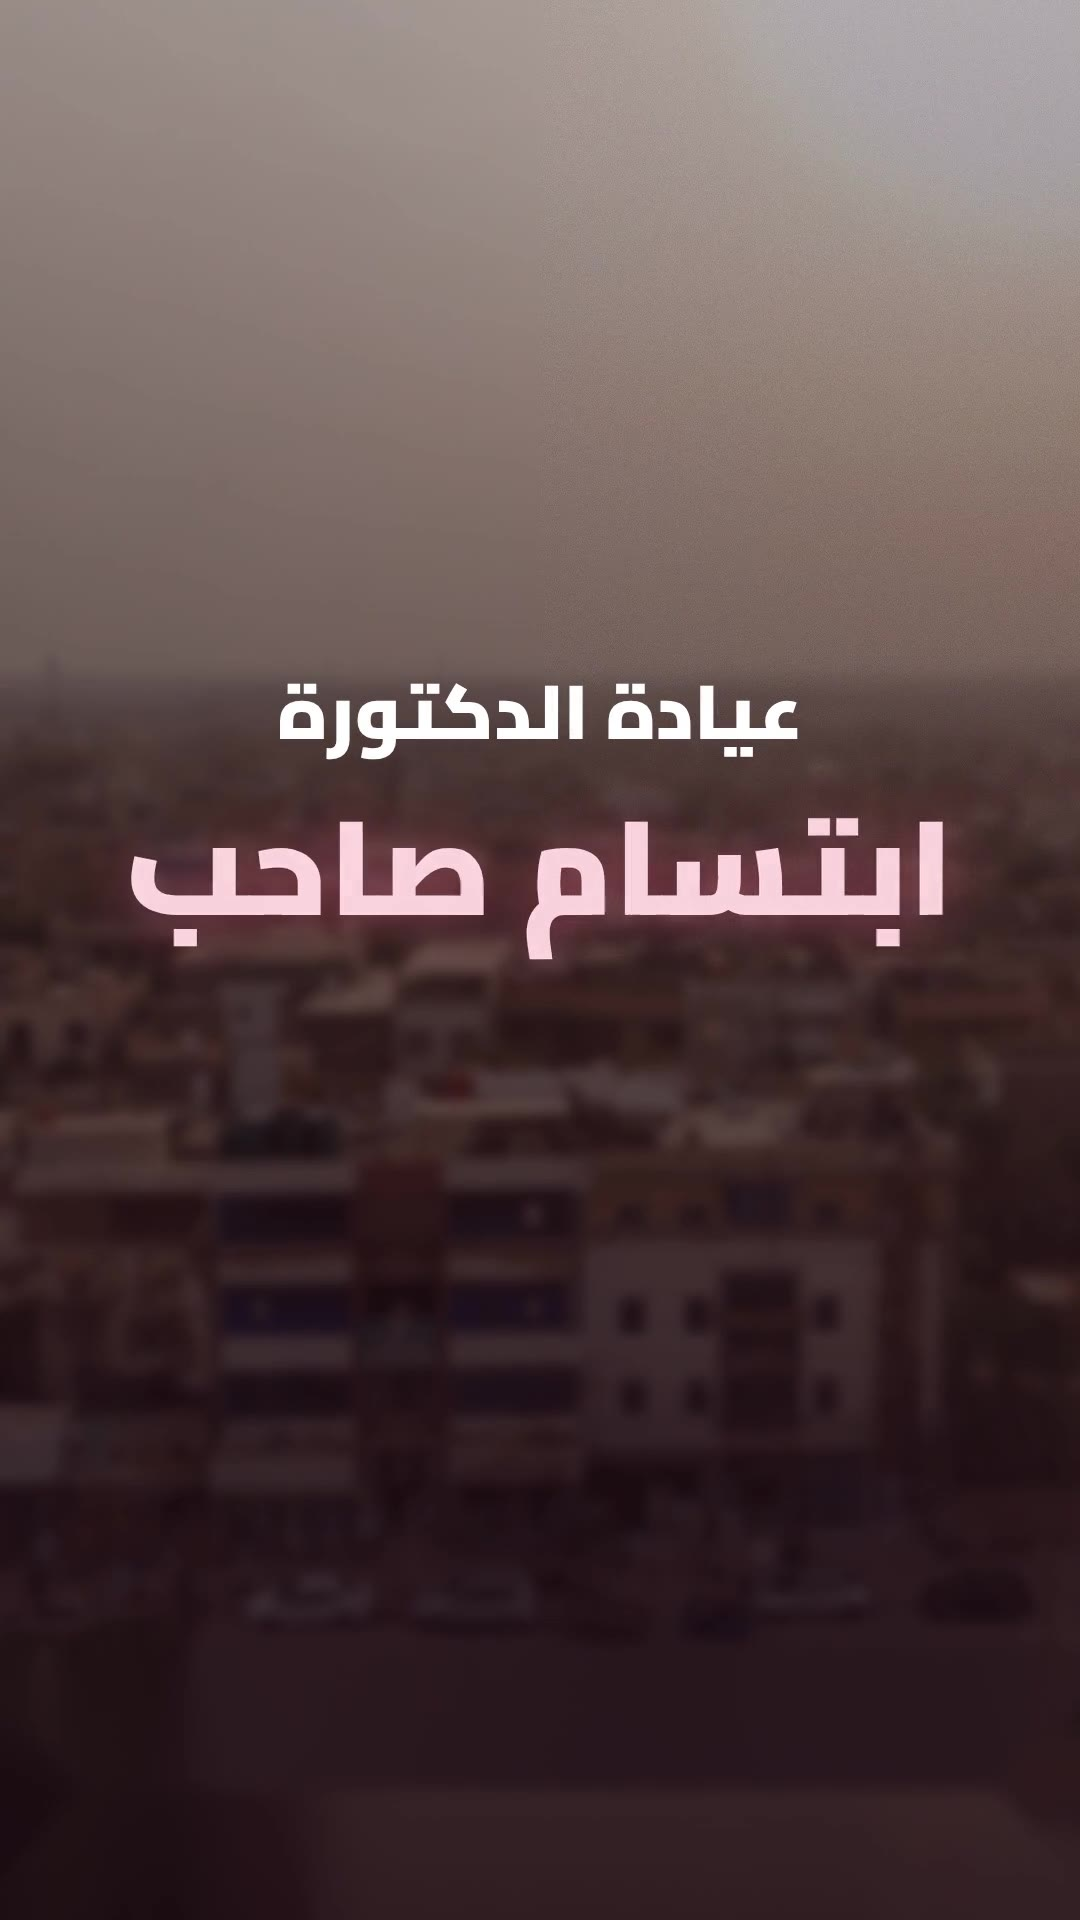
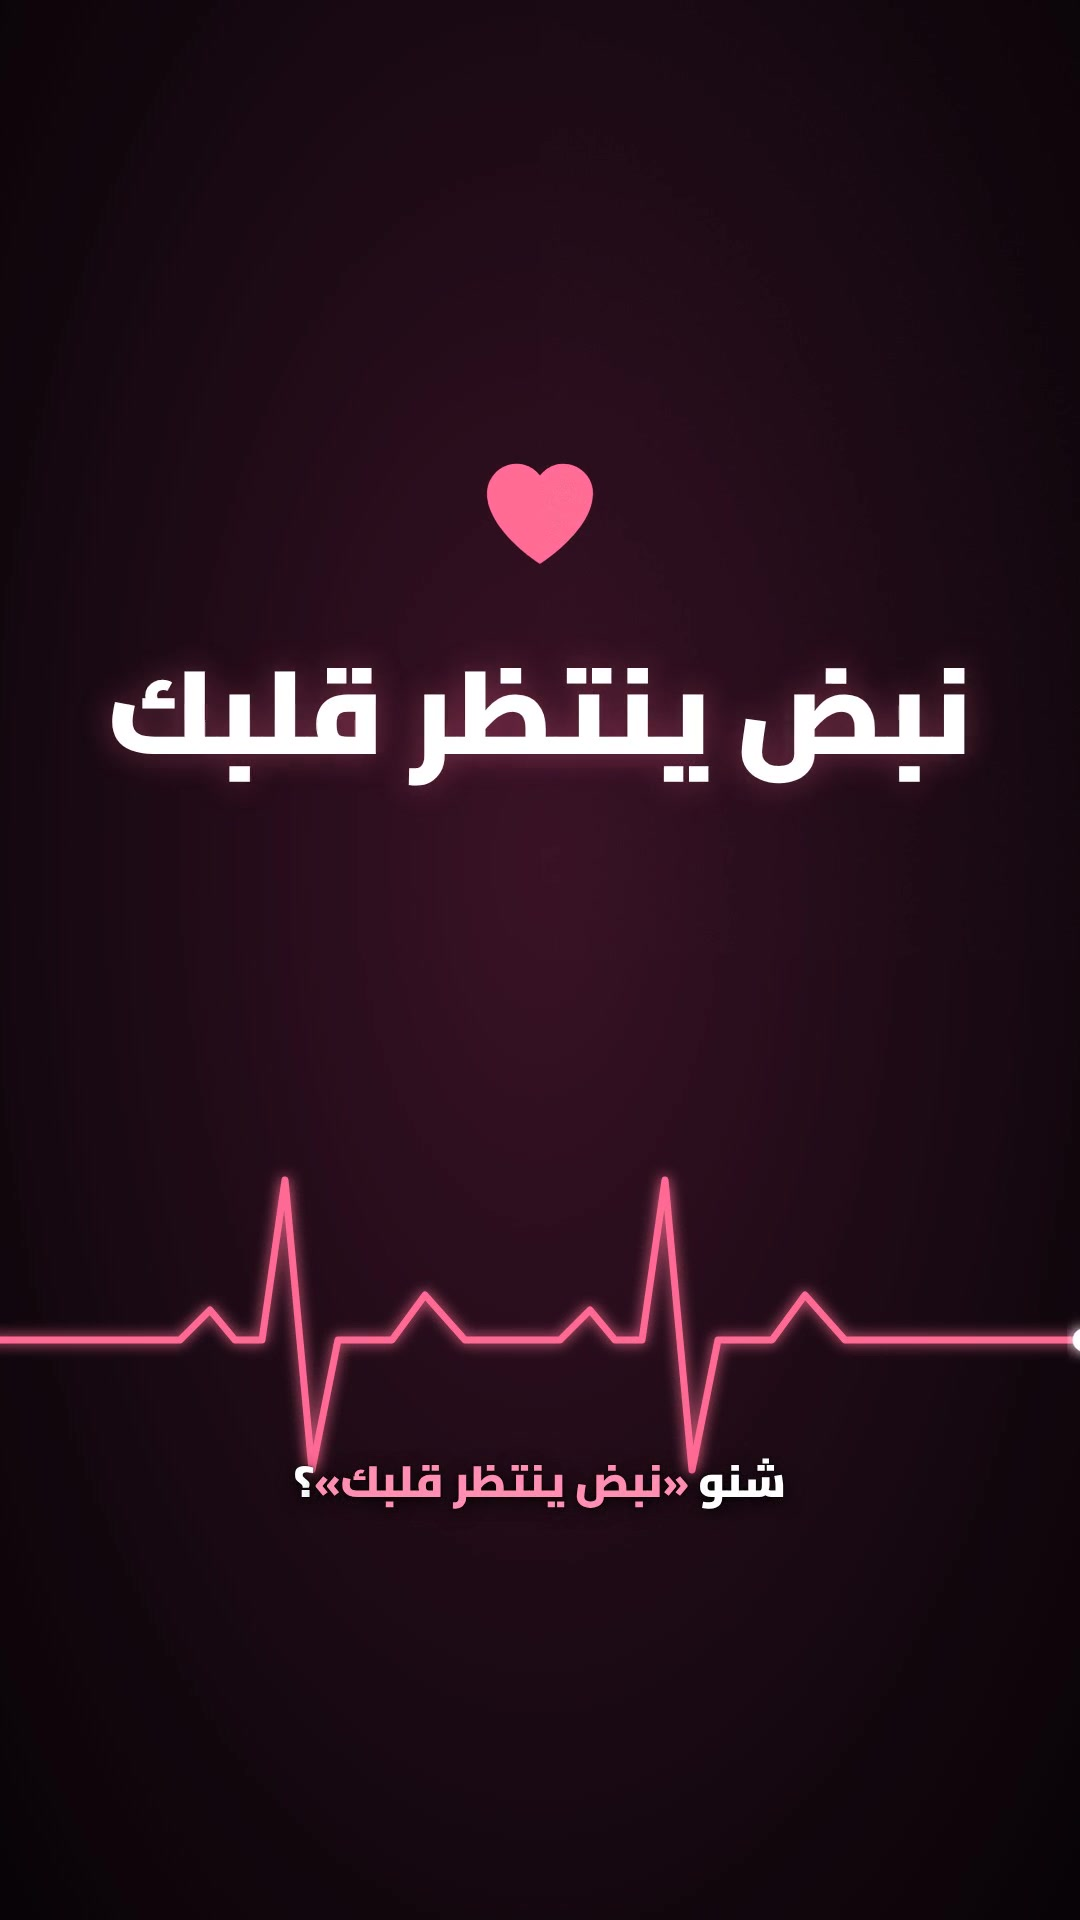
Add Instagram caption draft and refreshed cover for Nabd ad
Claude-Session: https://claude.ai/code/session_01RScGTcfWjTbBBy7U9fn22h

diff --git a/reels/nabd-campaign/CAPTION.md b/reels/nabd-campaign/CAPTION.md
@@ -1,0 +1,23 @@
+# كابشن إنستغرام — «نبض ينتظر قلبك» (الكشف)
+
+**الكابشن الرئيسي:**
+
+هواي سألتونا.. شنو «نبض ينتظر قلبك»؟ 🤍
+اليوم نكشفلكم الحكاية..
+عيادة الدكتورة ابتسام صاحب، اختصاص النسائية والتوليد، وعلاج العقم، وأطفال الأنابيب.
+
+📍 القاسم — شارع الأطباء — مجمع المرسل الطبي
+(من شارع المركز ← فلكة المركز ← شارع الأطباء)
+
+📞 للحجز: [رقم الحجز]
+
+احفظ الريل ودزه لكل وحدة تنتظر نبضها 🤍
+
+**هاشتاگات:**
+#نبض_ينتظر_قلبك #القاسم #بابل #نسائية_وتوليد #أطفال_الأنابيب #علاج_العقم #العراق
+
+**الكومنت الأول (تثبيت):**
+📍 الموقع: مجمع المرسل الطبي — شارع الأطباء — القاسم
+📞 [رقم الحجز]
+
+> ⚠ قبل النشر: ثبّت الاسم والاختصاص النهائي، وحط الرقم الحقيقي. ولازم يتأكد إن هاشتاگ «#بابل» صحيح (القاسم تابعة لمحافظة بابل).
